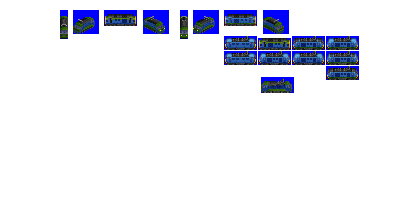
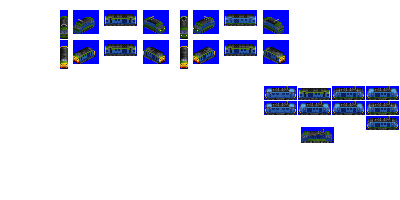
Change: sprites complete for Slug

Changed region(s): [[0.45, 0.18, 1.0, 0.66], [0.15, 0.18, 0.42, 0.36], [0.75, 0.63, 0.84, 0.72]]

diff --git a/src/vehicles/slug.py b/src/vehicles/slug.py
@@ -6,7 +6,8 @@ consist = EngineConsist(id='slug',
                         role='freight',
                         power=1750,
                         random_reverse=True,
-                        gen=5)
+                        gen=5,
+                        sprites_complete=True)
 
 consist.add_unit(type=DieselEngineUnit,
                  weight=110,
